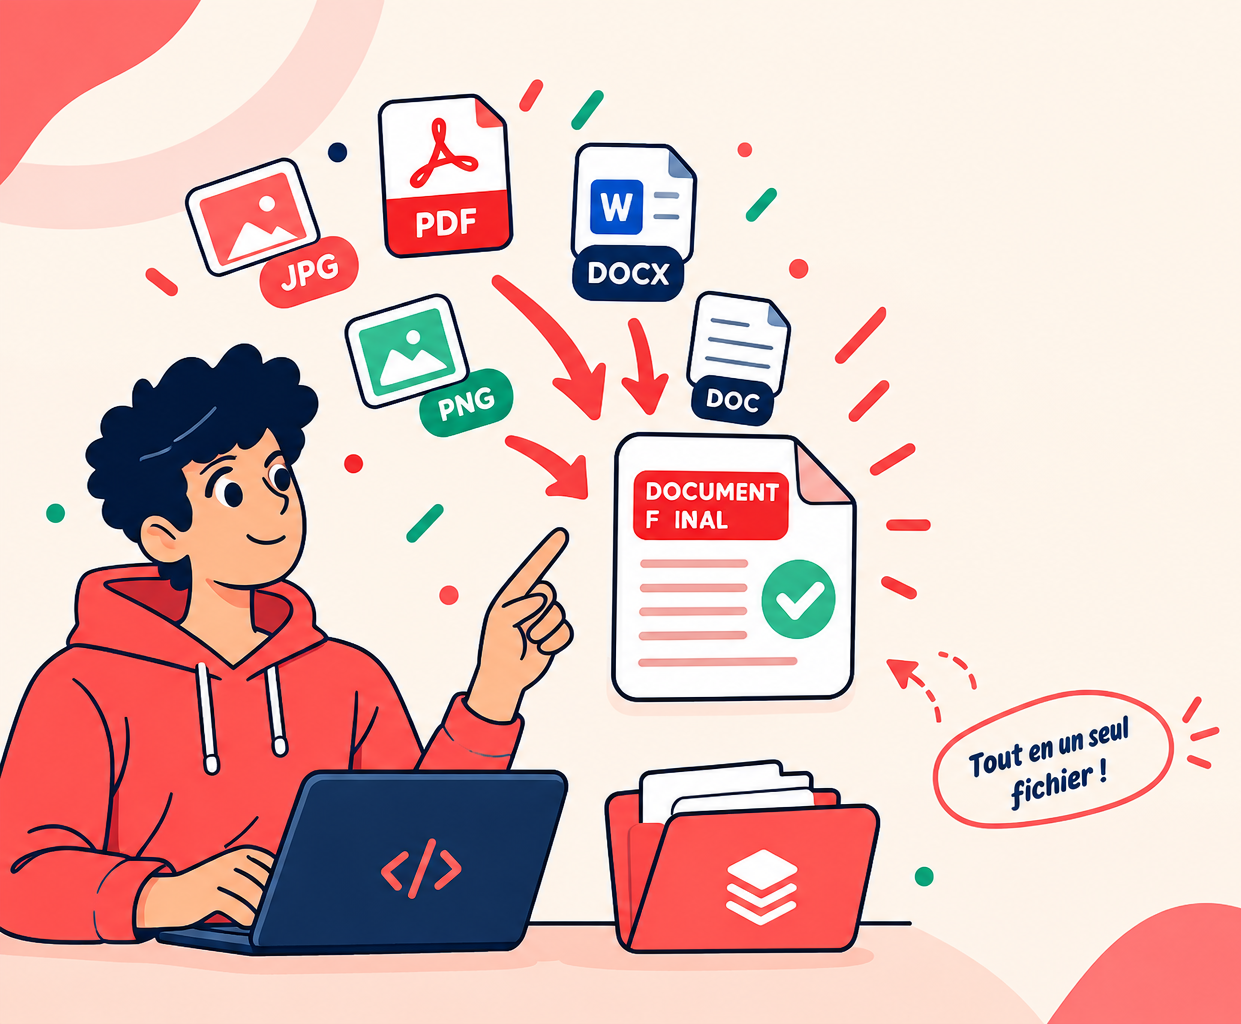
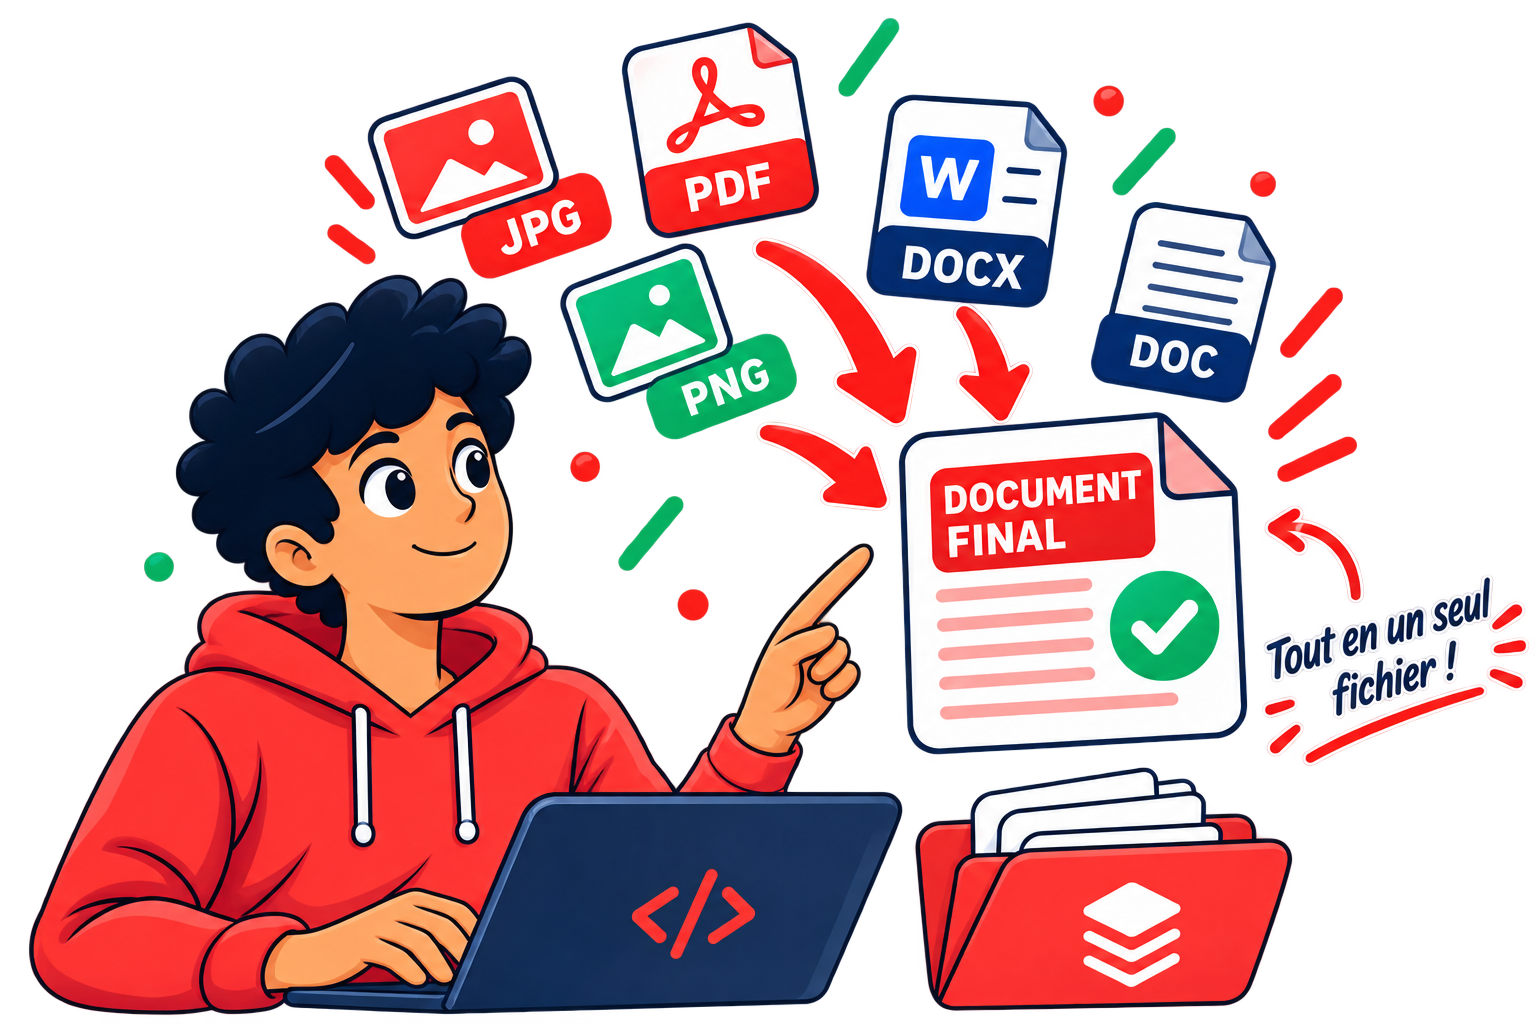
Images en WebP et chemins mis à jour

diff --git a/app/HomeClient.tsx b/app/HomeClient.tsx
@@ -27,7 +27,8 @@ const EASE = "cubic-bezier(0.22, 1, 0.36, 1)";
 
 // Couleur d'appoint (ambre) pour casser le « tout orange »
 const AMBER = "#F5B544";
-
+// Place réservée en haut quand la recherche est ouverte (en pixels).
+// Plus petit = le contenu descend moins. Trop petit = la barre touche le contenu.
 // Ordre d'affichage des niveaux dans le sélecteur
 const LEVEL_ORDER = ["Débutant", "Intermédiaire", "Avancé"];
 
@@ -423,7 +424,7 @@ function WelcomeBanner({ w, c, left }: { w: Welcome; c: boolean; left: boolean }
         {/* key = la phrase : quand elle change, elle réapparaît en douceur */}
         <p
           key={w.message}
-          className="ah-fade line-clamp-2 text-xs leading-snug text-foreground-secondary sm:text-[13px]"
+          className="ah-fade line-clamp-2 min-h-[2lh] text-xs leading-snug text-foreground-secondary sm:text-[13px]"
         >
           {w.message}
         </p>
@@ -498,7 +499,7 @@ function SlideVisual({
 
   return (
     <div
-      className={`relative h-[26dvh] w-full sm:h-[32dvh] lg:absolute lg:inset-y-0 lg:z-10 lg:h-auto lg:w-[58%] ${
+      className={`relative h-[18dvh] w-full [@media(min-height:800px)_and_(max-width:639px)]:h-[22dvh] sm:h-[32dvh] lg:absolute lg:inset-y-0 lg:z-10 lg:h-auto lg:w-[58%] ${
         left ? "lg:left-0" : "lg:right-0"
       }`}
     >
@@ -511,7 +512,7 @@ function SlideVisual({
         }}
       >
         {/* Contenu fondu dans la page (dégradé sur les bords) */}
-        <div className={`ah-blend absolute inset-0 ${left ? "ah-blend-left" : ""}`}>
+        <div className={`ah-blend absolute inset-0 lg:top-20 lg:bottom-6 ${left ? "ah-blend-left" : ""}`}>
           {/* ── Variante IMAGE ── */}
           {visual === "image" && (
             <Image
@@ -521,7 +522,7 @@ function SlideVisual({
               priority={index === 0}
               unoptimized
               sizes="(min-width: 1024px) 58vw, 100vw"
-              className={`${fit} object-center`}
+              className={`${fit} object-center lg:object-contain`}
               style={{
                 transform: c ? "scale(1) translate3d(0,0,0)" : reveal.zoom,
                 transition: `transform 2.6s ${EASE} 600ms`,
@@ -916,7 +917,7 @@ function AutomationSlide({
               {/* [F] Description courte (la version complète est dans « Détails & code ») */}
               <p
                 style={rise(c, 1250)}
-                className="mt-3 line-clamp-2 max-w-lg text-sm leading-relaxed text-foreground-secondary sm:line-clamp-3 sm:text-[15px]"
+                className="mt-3 line-clamp-2 max-w-lg text-sm leading-relaxed text-foreground-secondary [@media(min-height:800px)_and_(max-width:639px)]:line-clamp-4 sm:line-clamp-3 sm:text-[15px]"
               >
                 {a.description}
               </p>
@@ -954,15 +955,7 @@ function AutomationSlide({
                 </div>
               </div>
 
-              {/* Message pour les visiteurs sur téléphone */}
-              <p
-                style={rise(c, 1560)}
-                className="mt-3 flex items-start gap-2 rounded-sm border border-warning/40 bg-warning/10 px-3 py-2 text-xs text-foreground md:hidden"
-              >
-                <Ico d={icons.monitor} className="mt-0.5 h-3.5 w-3.5 shrink-0 text-warning" />
-                Cette automatisation se lance sur un PC : ouvre cette page depuis
-                ton ordinateur pour la télécharger.
-              </p>
+
               {/* Visiteur sur téléphone : envoyer le lien vers son ordinateur */}
               <button
                 type="button"
@@ -1581,7 +1574,7 @@ export default function HomeClient({
   };
 
   useEffect(() => {
-    if (searchOpen) inputRef.current?.focus();
+    if (searchOpen) inputRef.current?.focus({ preventScroll: true });
   }, [searchOpen]);
     // Recherche dans TOUTES les automatisations (pas seulement les 5 du jour)
   useEffect(() => {
@@ -1756,9 +1749,9 @@ export default function HomeClient({
               priority
               className="h-9 w-9 shrink-0 object-contain sm:h-11 sm:w-11"
             />
-            <span className="truncate font-heading text-base uppercase leading-none tracking-wide text-secondary sm:text-xl">
-              Automation <span className="text-primary">Hub</span>
-            </span>
+<span className="font-heading text-[15px] uppercase leading-[1.05] tracking-wide text-secondary sm:text-xl sm:leading-none">
+  Automation <span className="block text-primary sm:inline">Hub</span>
+</span>
           </Link>
 
           {/* Coin droit : admin, recherche, compte */}
@@ -1960,7 +1953,8 @@ export default function HomeClient({
       )}
 
       {/* ─────────── SLIDES : un par tâche, pas de défilement ─────────── */}
-      <div className="absolute inset-0">
+{/* ─────────── SLIDES : un par tâche, pas de défilement ─────────── */}
+<div className="absolute inset-0">
         {total === 0 && (
           <div className="grid h-full place-items-center px-6">
             <p className="text-foreground-secondary">Aucune automatisation trouvée.</p>

diff --git a/app/automations/page.tsx b/app/automations/page.tsx
@@ -93,7 +93,7 @@ export default async function AllAutomations({
           </button>
         </form>
                 {/* Filtre par niveau */}
-        <div className="mt-5 flex flex-wrap items-center gap-2">
+        <div className="-mx-4 mt-5 flex items-center gap-2 overflow-x-auto px-4 pb-1 sm:mx-0 sm:flex-wrap sm:overflow-visible sm:px-0">
           {[undefined, ...LEVELS].map((l) => {
             const active = l === level;
             const to = `/automations?${new URLSearchParams({
@@ -105,7 +105,7 @@ export default async function AllAutomations({
               <Link
                 key={l ?? "tous"}
                 href={to}
-                className={`inline-flex items-center gap-1.5 rounded-sm px-3 py-1.5 text-sm font-semibold transition ${
+                className={`inline-flex shrink-0 items-center gap-1.5 rounded-sm px-3 py-1.5 text-sm font-semibold transition ${
                   active
                     ? "bg-secondary text-on-secondary"
                     : "bg-surface text-foreground-secondary shadow-sm hover:text-foreground"
@@ -164,7 +164,7 @@ export default async function AllAutomations({
                       <Link
                         key={v.slug}
                         href={`/?a=${v.slug}`}
-                        className="inline-flex items-center gap-1.5 rounded-sm bg-background-alt px-2 py-1 text-[11px] font-semibold text-foreground-secondary transition hover:bg-secondary hover:text-on-secondary"
+                        className="inline-flex items-center gap-1.5 rounded-sm bg-background-alt px-3 py-2 text-xs font-semibold text-foreground-secondary transition hover:bg-secondary hover:text-on-secondary"
                       >
                         <span
                           className={`h-2 w-2 rounded-full ${levelDot[v.level] ?? "bg-foreground-muted"}`}

diff --git a/components/DownloadButton.tsx b/components/DownloadButton.tsx
@@ -26,7 +26,7 @@ export default function DownloadButton({
     <button
       onClick={handleClick}
       disabled={isPending}
-      className="mt-6 inline-block rounded-lg bg-white px-5 py-3 font-semibold text-black disabled:opacity-50"
+      className="mt-6 inline-flex items-center justify-center rounded-sm bg-secondary px-5 py-3 font-semibold text-on-secondary transition hover:bg-primary disabled:opacity-50"
     >
       {session
         ? `⬇ Télécharger le fichier .${fileType}`
